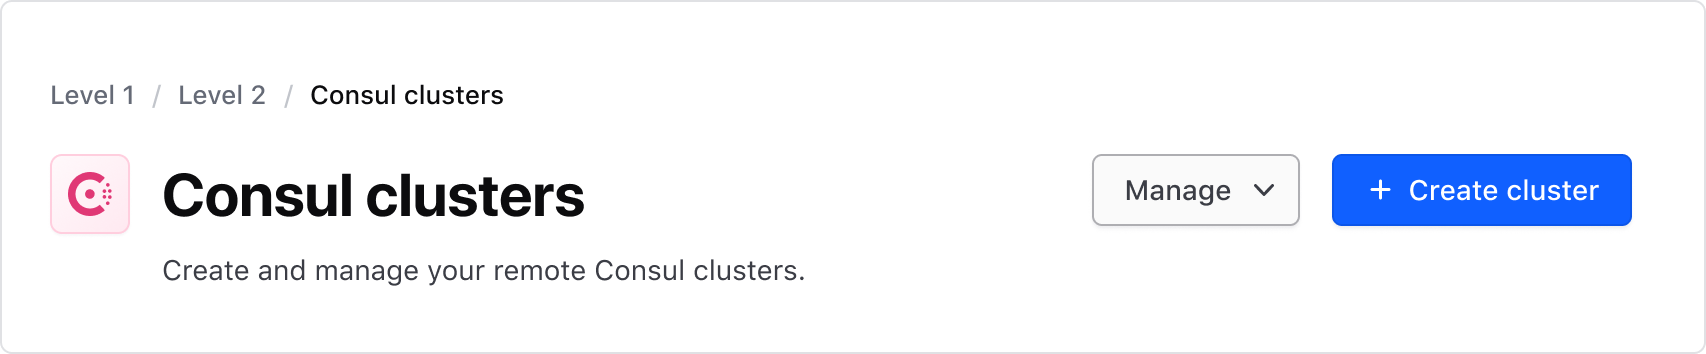
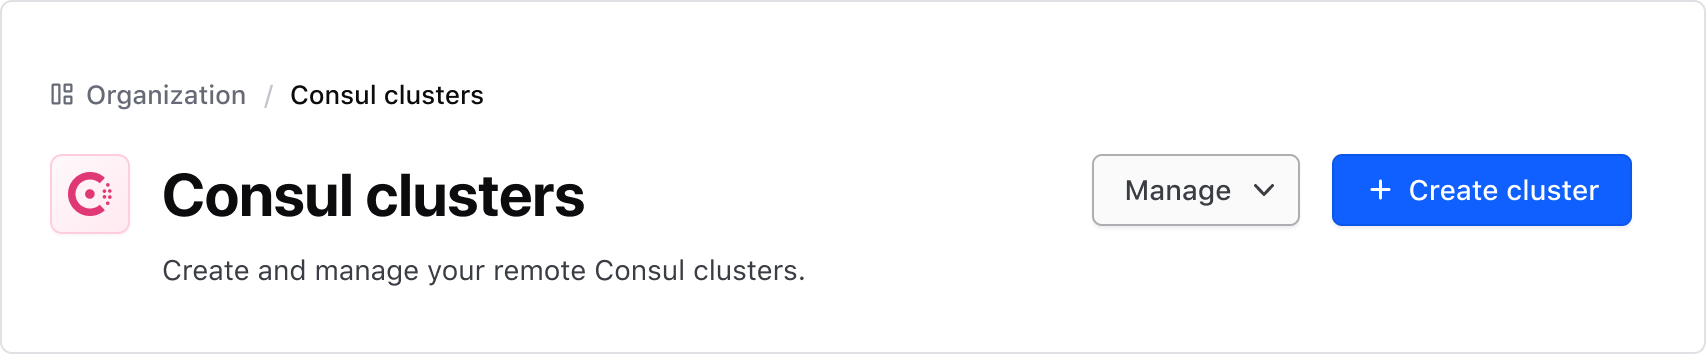
Cleaning up breadcrumb instances to current HCP specs

Changed region(s): [[0.0311, 0.2175, 0.3107, 0.3107]]

diff --git a/website/docs/components/page-header/partials/code/how-to-use.md b/website/docs/components/page-header/partials/code/how-to-use.md
@@ -23,8 +23,8 @@ The layout of this component is reponsive and adjusts based on the width of it's
   <PH.Title>Page title</PH.Title>
   <PH.Breadcrumb>
     <Hds::Breadcrumb>
-      <Hds::Breadcrumb::Item @text="Organization" @icon="org" />
-      <Hds::Breadcrumb::Item @text="Project" @icon="folder" />
+      <Hds::Breadcrumb::Item @text="Organization" @icon="dashboard" />
+      <Hds::Breadcrumb::Item @text="Project" @icon="file-text" />
       <Hds::Breadcrumb::Item @text="Clusters" @icon="server-cluster" />
     </Hds::Breadcrumb>
   </PH.Breadcrumb>
